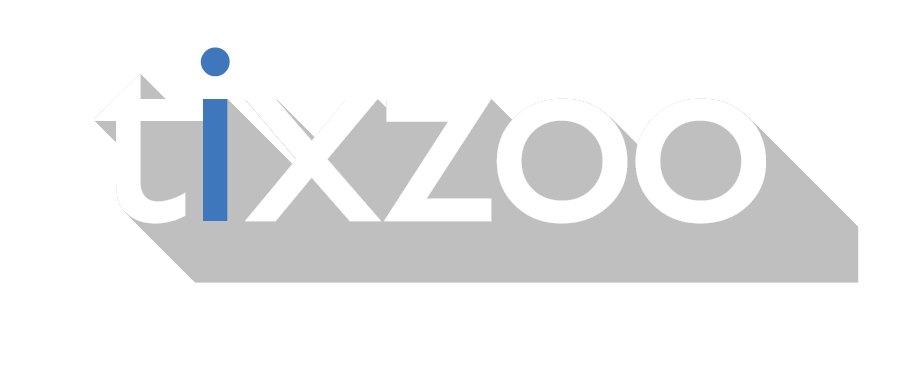
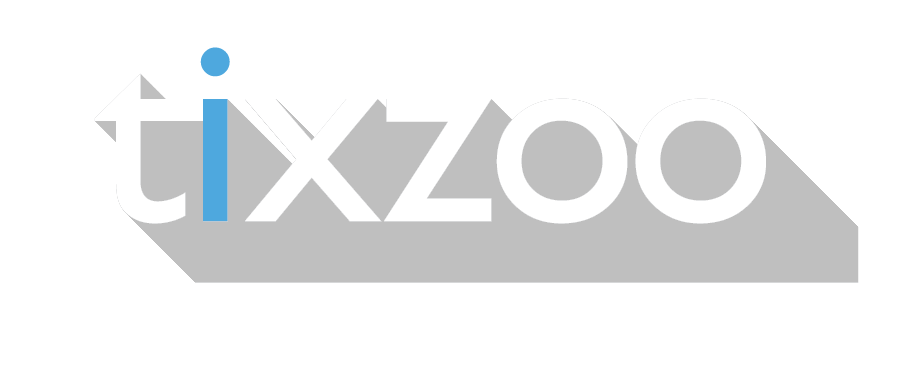
updated css

Changed region(s): [[0.214, 0.2654, 0.2751, 0.5898], [0.214, 0.118, 0.2751, 0.2064]]

diff --git a/style.css b/style.css
@@ -1,24 +1,25 @@
 body {
-	background: #dedfe0; /* Old browsers */
-background: -moz-linear-gradient(top, #dedfe0 0%, #b8bec1 100%); /* FF3.6+ */
-background: -webkit-gradient(linear, left top, left bottom, color-stop(0%,#dedfe0), color-stop(100%,#b8bec1)); /* Chrome,Safari4+ */
-background: -webkit-linear-gradient(top, #dedfe0 0%,#b8bec1 100%); /* Chrome10+,Safari5.1+ */
-background: -o-linear-gradient(top, #dedfe0 0%,#b8bec1 100%); /* Opera 11.10+ */
-background: -ms-linear-gradient(top, #dedfe0 0%,#b8bec1 100%); /* IE10+ */
-background: linear-gradient(to bottom, #dedfe0 0%,#b8bec1 100%); /* W3C */
-filter: progid:DXImageTransform.Microsoft.gradient( startColorstr='#dedfe0', endColorstr='#b8bec1',GradientType=0 ); /* IE6-9 */
 	margin: 0;
 	padding:0;
 	text-align: center;
+	background-image:url(89.jpg);
+	background-repeat:none;
+	background-size:1200px;
+}
+
+.container {
+	background:rgba(206,206,206,.5);
+	width:100%;
+	height:100%;
 }
 
 img {
-	width:50%;
+	width:500px;
 	margin-top:3vw;
 }
 
 span {
-	color:rgb(0,128,255);
+	color:rgb(39,175,208);
 	font-weight:bold;
 }
 
@@ -32,16 +33,17 @@ h1  {
 }
 
 input {
-	width:30vw;
-	height:3vw;
-	padding-left:1vw;
-	font-size:1.3vw;
+	width:300px;
+	height:30px;
+	padding-left:10px;
+	font-size:12px;
 	font-family:gill sans;
 	font-weight: lighter;
 	background:transparent;
 	border:1px solid white;
 	box-shadow:inset 0 0 0;
 	color:#FFF;
+	float: left;
 }
 
 input::-webkit-input-placeholder {
@@ -57,12 +59,10 @@ input:focus {
 	}
 
 .email-btn a {
-	margin:3vw;
-	clear:both;
-	height:1vw;
-	width:12vw;
+	height:15px;
+	width:30px;
 	font-family:gill sans;
-	font-size: 1vw;
+	font-size: 12px;
 	background:none;
 	text-transform:uppercase;
 	color:#fff;
@@ -77,13 +77,14 @@ input:focus {
 }
 
 .btn {
-	clear:both;
+	float:right;
 	display:inline-block;
 	position:relative;
 	margin-left:2vw;
 	box-sizing:border-box;
-	padding:1.5vw;
-
+	padding:13px;
+	width:150px;
+	height:40px;
 }
 
 .btn .bg {
@@ -93,7 +94,7 @@ input:focus {
   height:100%;
   outline:#FFF solid 1px;
   position:absolute;
-}
+ }
 
 @keyframes pulse {
 	0% {
@@ -103,7 +104,7 @@ input:focus {
 	100% {
 		transform:scale(1.1,1.35);
 		opacity:1;
-		outline:rgb(0,128,255) solid 1px;
+		outline:rgb(39,175,208) solid 1px;
 	}
 }
 
@@ -120,3 +121,44 @@ outline:none;
 	display:inline-block;
 }
 
+/*  media queries */
+@media screen and (max-width: 800px) {
+
+	body {
+		text-align: center;
+	}
+
+	.container {
+		text-align: center;
+	}
+	img {
+		margin-top: 100px;
+		width:350px;
+	}
+
+	h1{
+		font-size: 20px;
+	}
+
+	.btn {
+		float:none;
+		width: auto;
+		text-align: center;
+		vertical-align: middle;
+		padding:14px;
+
+	}
+
+	.email-btn a {
+		font-size: 10px;
+	}
+
+
+
+}
+
+@media screen and (max-width:400px) {
+	.btn {
+		margin-top:10px;
+	}
+}

diff --git a/index.html b/index.html
@@ -3,6 +3,7 @@
 <html>
 
 <head>
+	<meta name="viewport" content="width-device-width, initial-scale=1" />
 
 	<meta charset="UTF-8">
 
